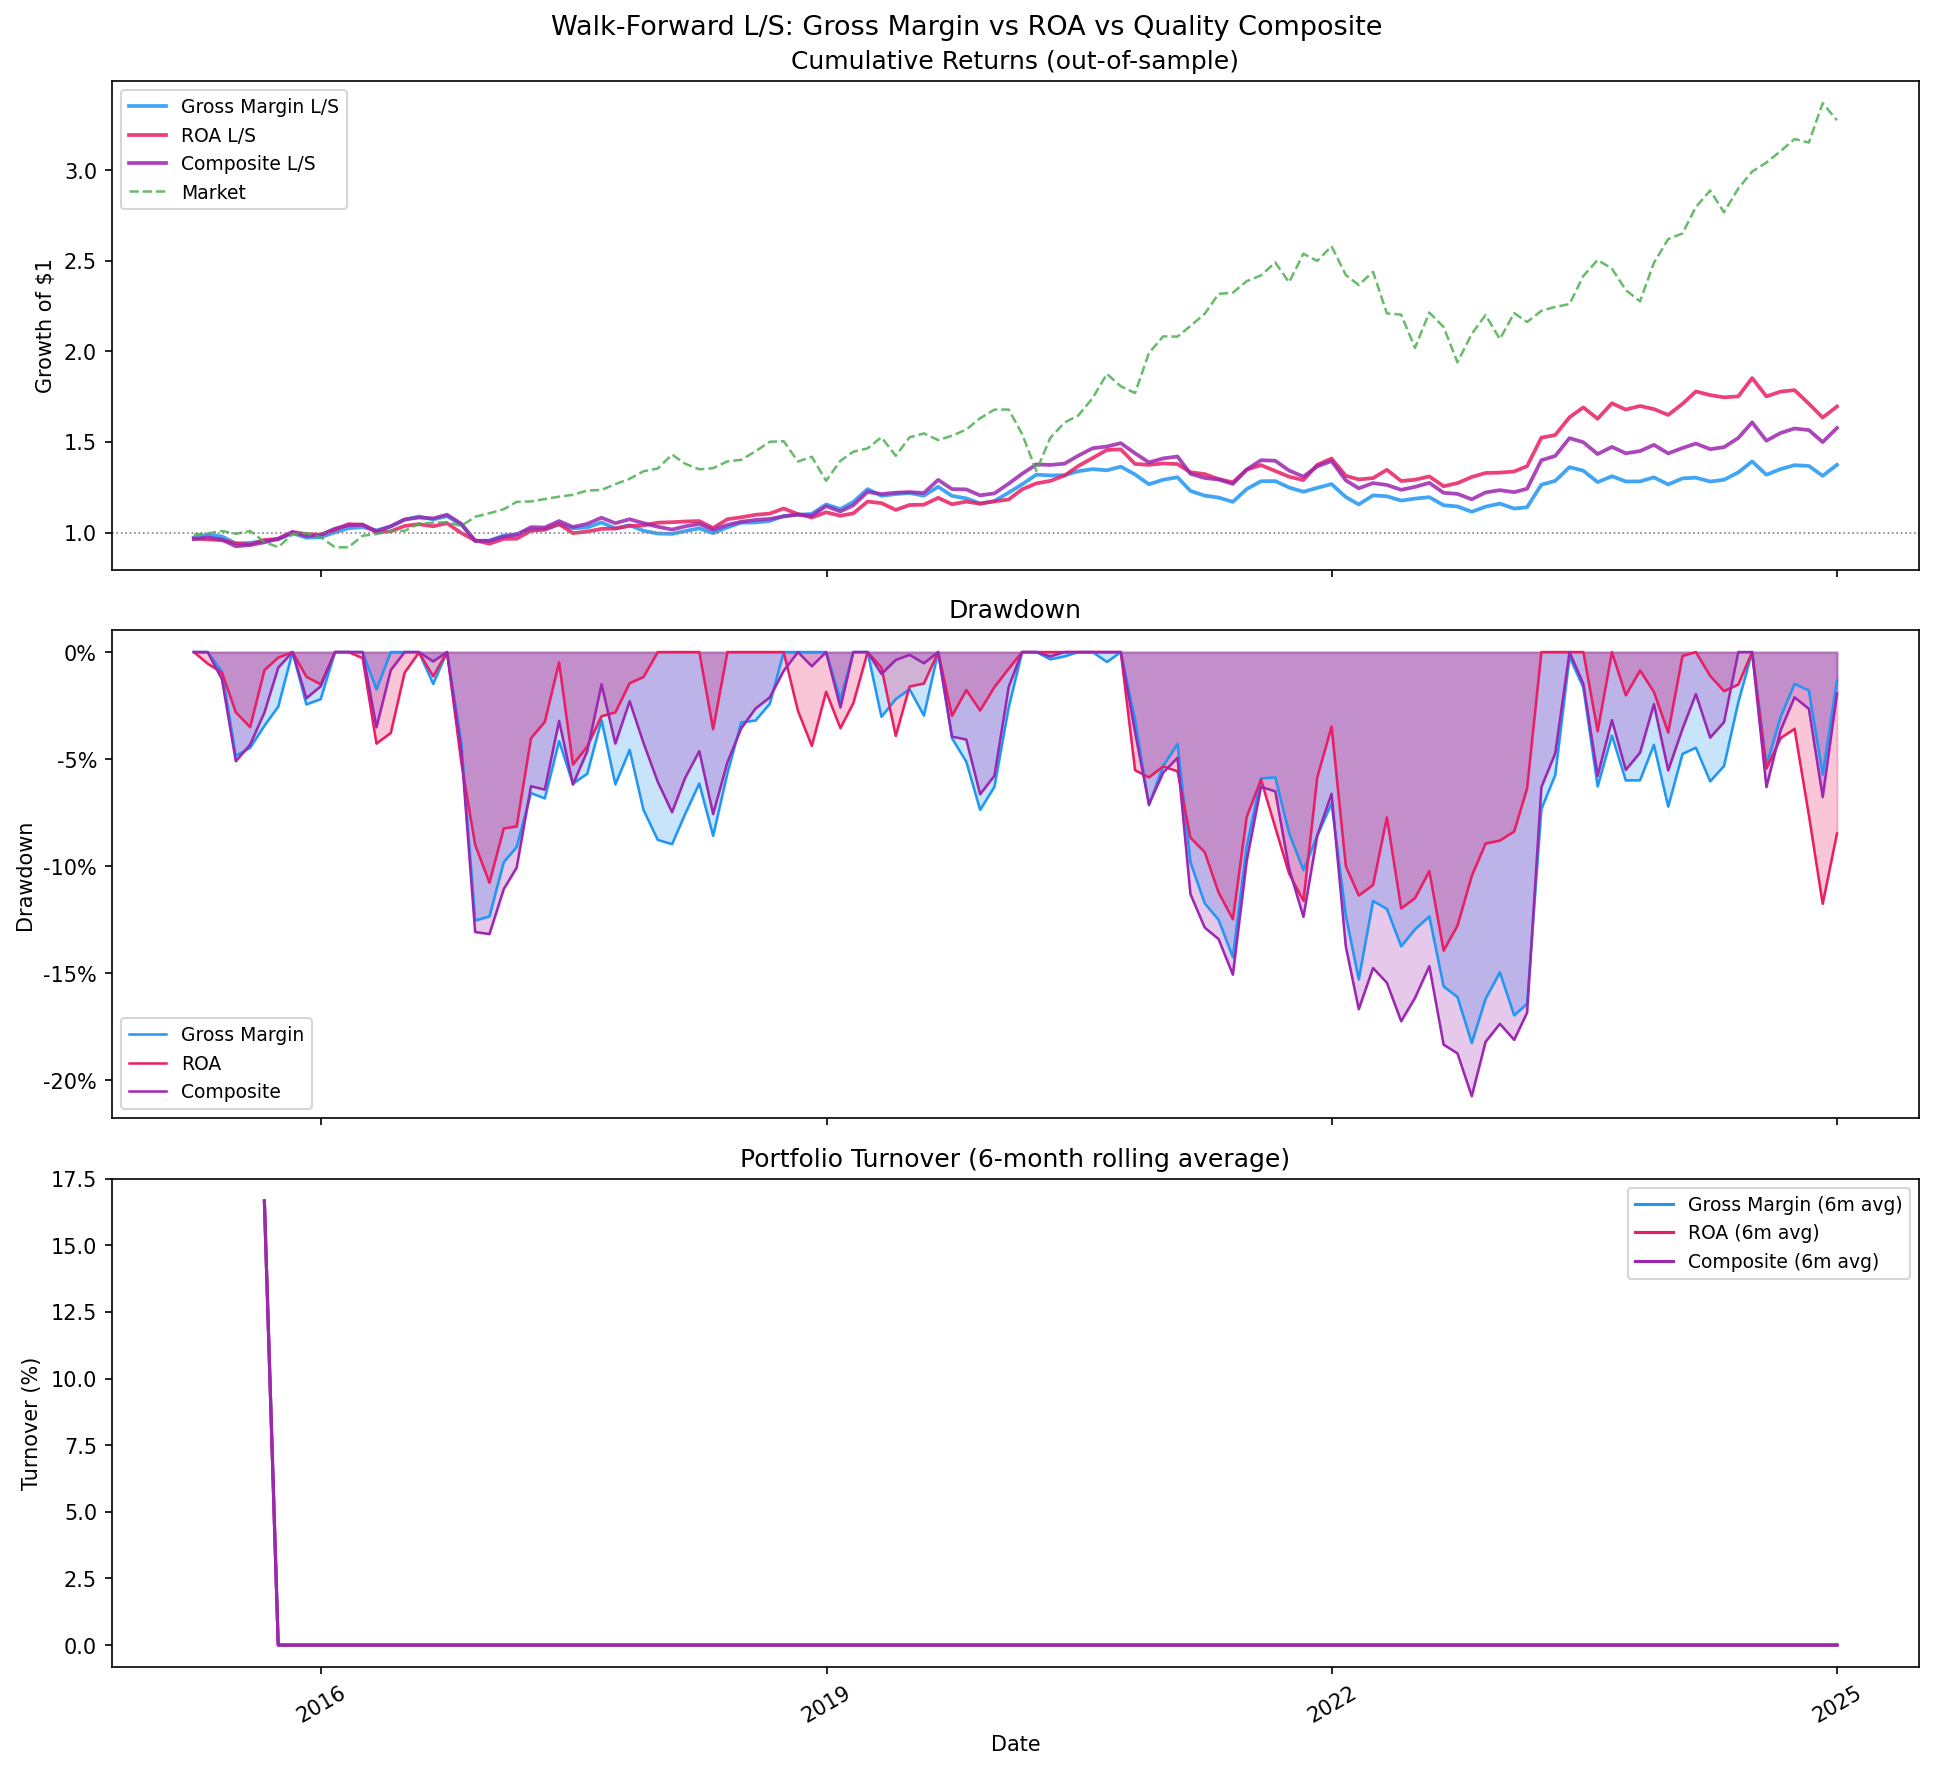
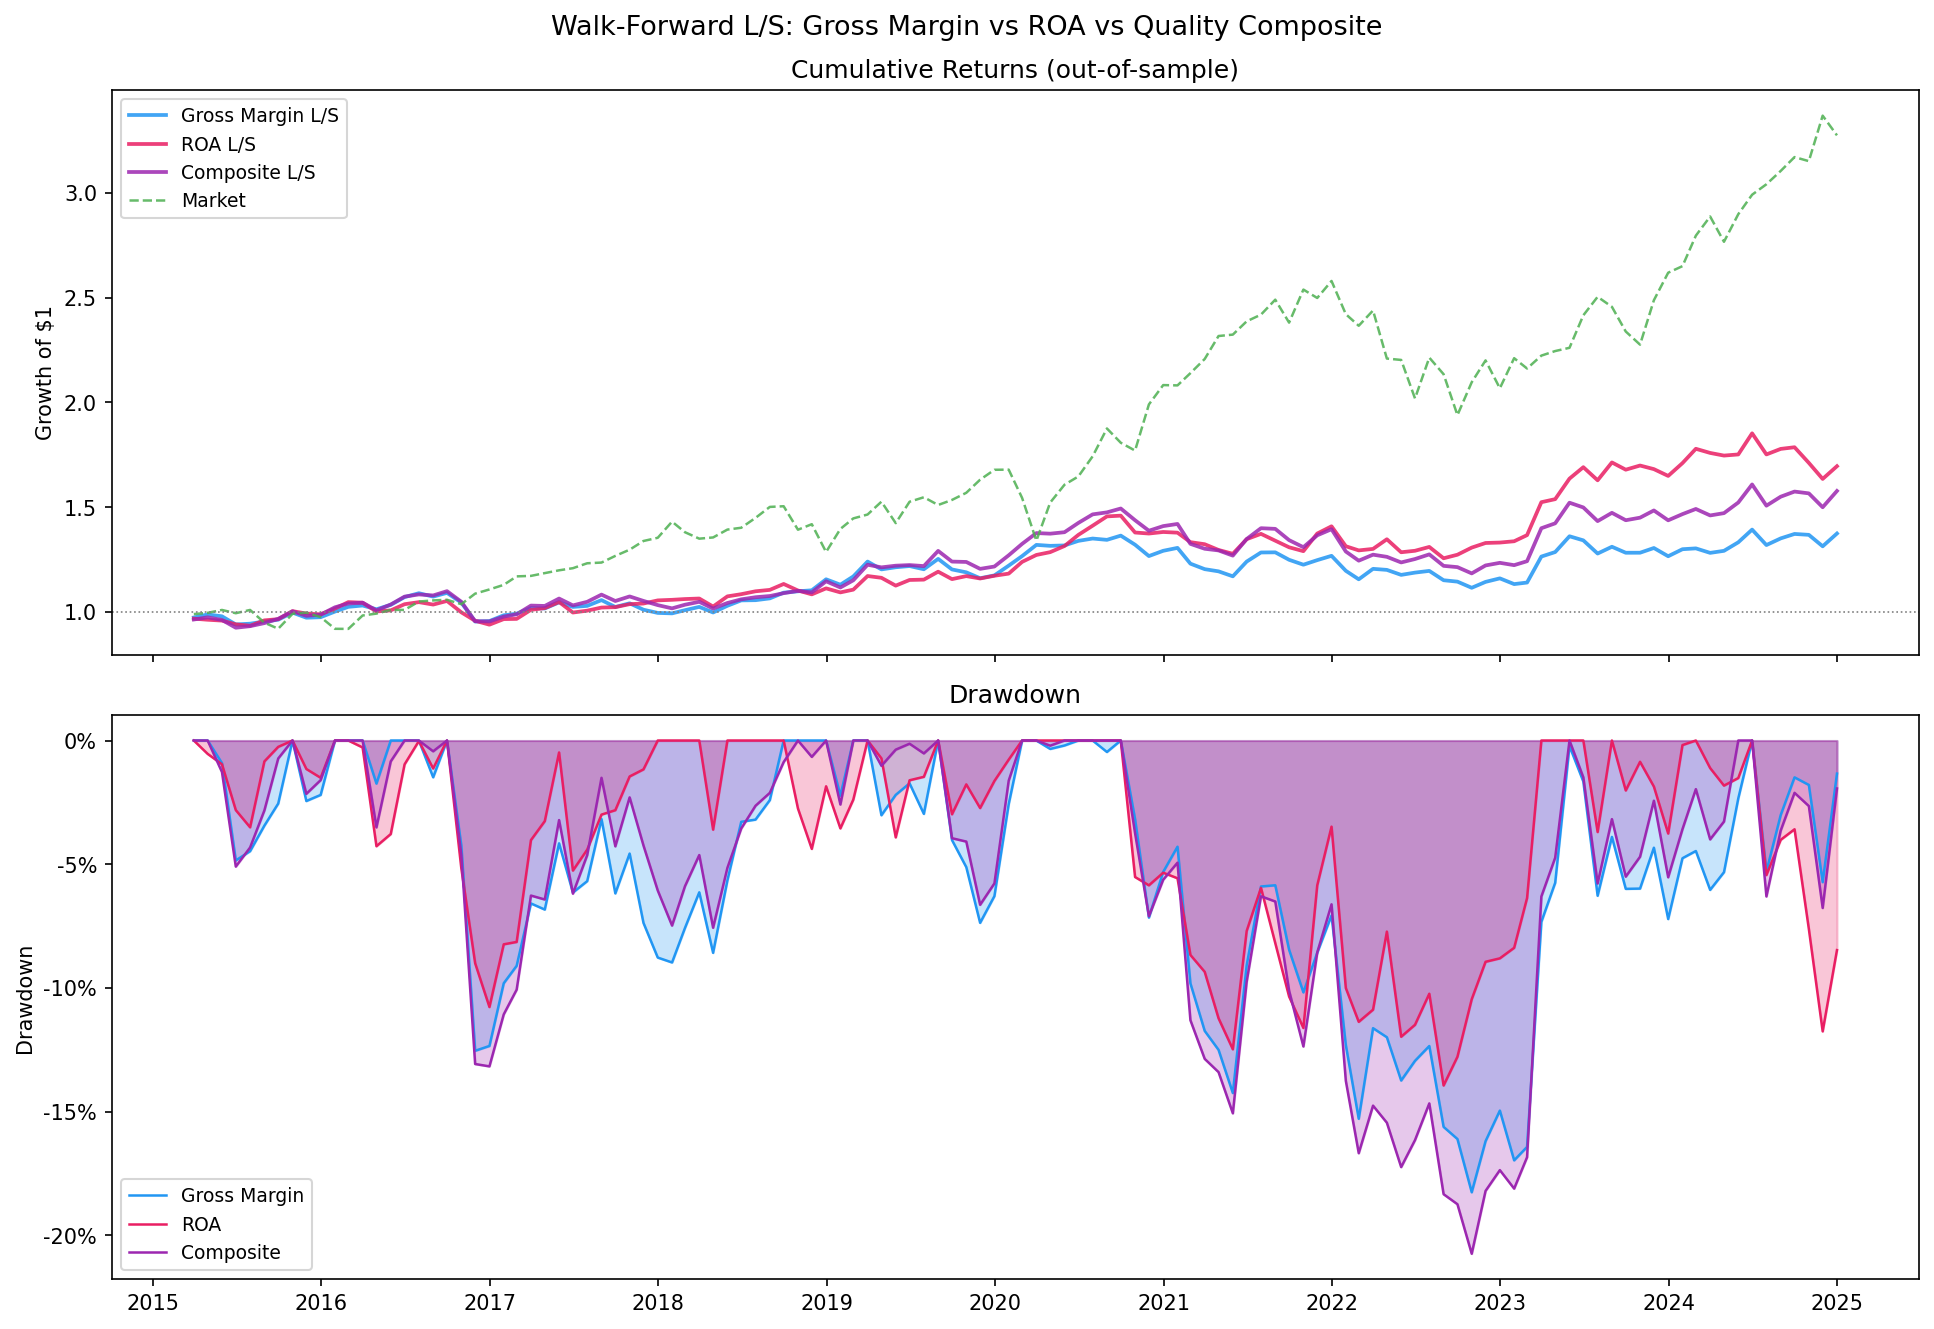
Update Walk Forward

diff --git a/06_walk_forward.py b/06_walk_forward.py
@@ -157,7 +157,7 @@ def print_metrics_table(metrics_list):
 
 
 def plot_results(port_gm, port_roa, port_q, market_ret):
-    fig, axes = plt.subplots(3, 1, figsize=(13, 12), sharex=True)
+    fig, axes = plt.subplots(2, 1, figsize=(13, 9), sharex=True)
     fig.suptitle("Walk-Forward L/S: Gross Margin vs ROA vs Quality Composite", fontsize=13)
 
     COLOR_GM  = "#2196F3"
@@ -202,20 +202,6 @@ def plot_results(port_gm, port_roa, port_q, market_ret):
     ax.set_ylabel("Drawdown")
     ax.yaxis.set_major_formatter(plt.FuncFormatter(lambda y, _: f"{y:.0%}"))
     ax.legend(fontsize=9)
-
-    # Turnover
-    ax = axes[2]
-    for port, color, label in [(port_gm, COLOR_GM, "Gross Margin"), (port_roa, COLOR_ROA, "ROA"), (port_q, COLOR_Q, "Composite")]:
-        turn = port.loc[common, "turnover"].rolling(6).mean()
-        ax.plot(turn.index, turn.values * 100, color=color, linewidth=1.5,
-                label=f"{label} (6m avg)")
-    ax.set_title("Portfolio Turnover (6-month rolling average)")
-    ax.set_ylabel("Turnover (%)")
-    ax.set_xlabel("Date")
-    ax.legend(fontsize=9)
-    ax.xaxis.set_major_formatter(mdates.DateFormatter("%Y"))
-    ax.xaxis.set_major_locator(mdates.YearLocator(3))
-    ax.tick_params(axis="x", rotation=30)
 
     plt.tight_layout()
     out = os.path.join(PLOT_DIR, "walk_forward.png")